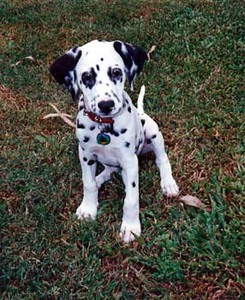
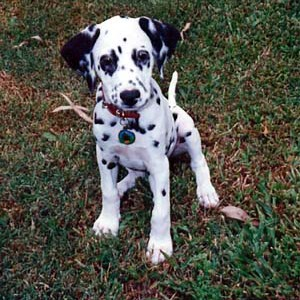
New style

diff --git a/app/assets/stylesheets/application.css.scss b/app/assets/stylesheets/application.css.scss
@@ -15,7 +15,11 @@
  */
 @import "bootstrap-sprockets";
 @import "bootstrap";
-@import 'normalize';
+
+body {
+	background: #96C0CE;
+}
+/*@import 'normalize';
 
 html, body {
 	font-family: 'Raleway', sans-serif;
@@ -70,7 +74,7 @@ a {
 		}
 	}
 	#title-logo{
-		/*color:#848484;*/
+		/*color:#848484;*/ /*
 		color: #ffffff;
 		font-size: 1.5em;
 		padding-left: 1em;
@@ -107,7 +111,7 @@ a {
 		}
 
 		.thumb{
-		border-radius: 2em;
+		border-radius: 5em;
 		}
 
 		.preview_text{
@@ -153,7 +157,7 @@ a {
 				font-size: 1.1em;
 				padding-left: 2em;
 				max-width: 600px;
-				/*line-height: 1.75;*/
+				/*line-height: 1.75;*/ /*
 
 			}
 			.date_and_author {
@@ -272,4 +276,4 @@ a {
 			}
 		}
 	}
-}
+}*/

diff --git a/app/models/report.rb b/app/models/report.rb
@@ -1,6 +1,6 @@
 class Report < ActiveRecord::Base
 	belongs_to :user
-	has_attached_file :image, :styles => { :large => "600x600", :medium => "300x300>", :thumb => "150x150#" }, :default_url => "missing-dog-:style.jpg"
+	has_attached_file :image, :styles => { :large => "600x600", :medium => "300x300#", :thumb => "150x150#" }, :default_url => "missing-dog-:style.jpg"
 	validates_attachment_content_type :image, content_type: /\Aimage\/.*\Z/
 	validates :name, presence: true
 	validates :details, presence: true
